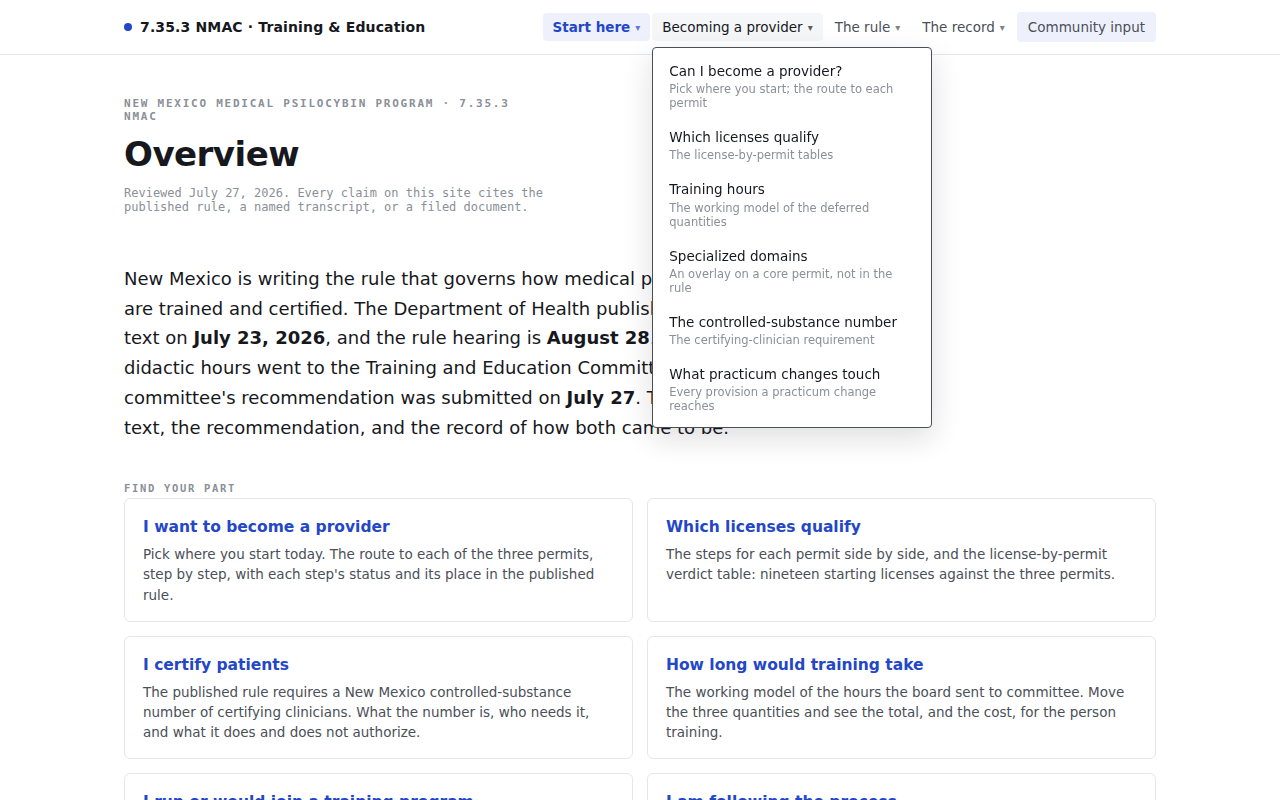
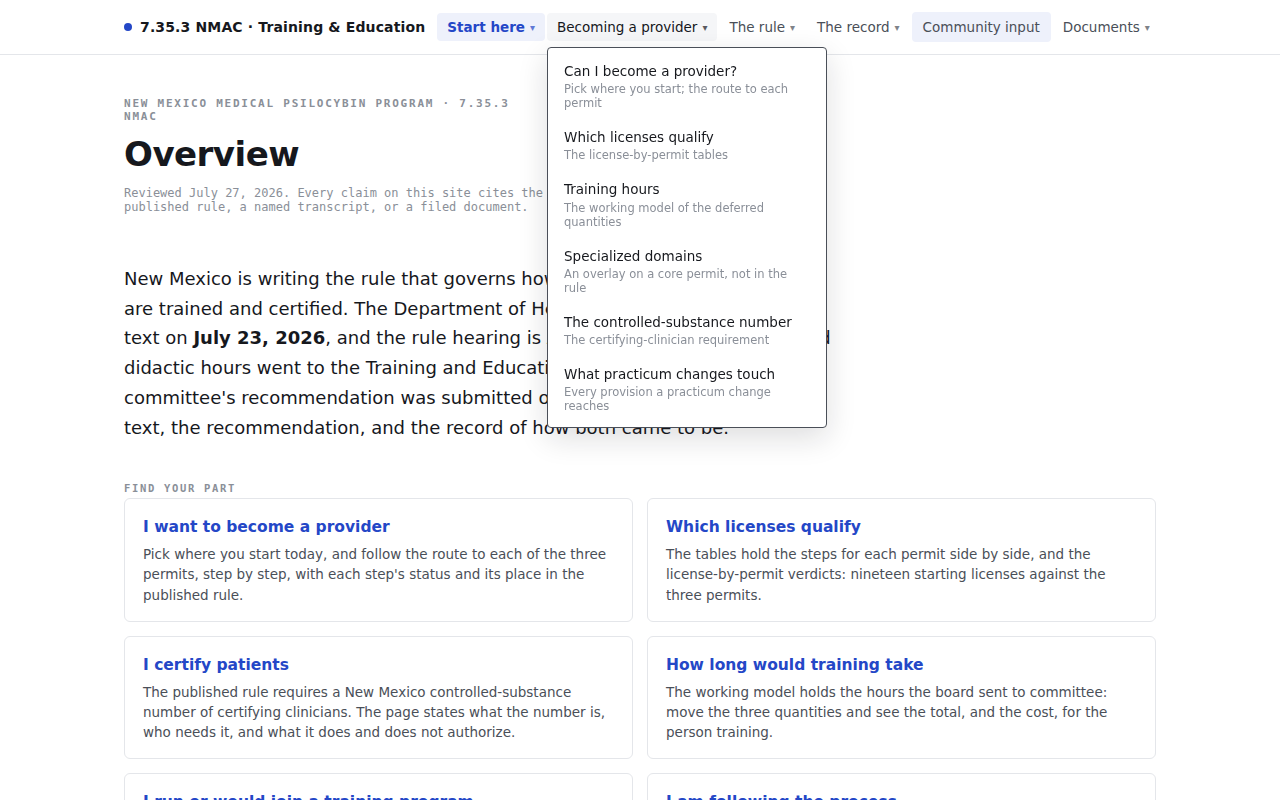
The Documents dropdown returns to the shared menu
Rightmost on every page, as before the unification: the register entry
opening record.html#documents, and the four current documents, the
published rule of July 23, both July 17 transcripts, and Dr. Anne
Metz's recommendations, each opening in a new tab. tools/check-site.py
now fails if the register entry or any of the four is missing from the
menu or does not open in a new tab. The desktop screenshots are
re-taken with the dropdown present.

Claude-Session: https://claude.ai/code/session_016xz6BLNYfb6j36YUkhoNb7

diff --git a/docs/changes.html b/docs/changes.html
@@ -209,7 +209,7 @@
   .navgrp>summary.on{color:var(--accent); background:var(--accent-soft);}
   .navgrp .caret{font-size:10px; opacity:.7;}
   .navgrp .tdrop-menu{position:absolute; top:calc(100% + 6px); left:0; right:auto; background:var(--surface); border:1px solid var(--border-strong); border-radius:10px; box-shadow:var(--shadow-lg,0 18px 44px rgba(26,22,33,.14)); padding:6px; min-width:280px; display:flex; flex-direction:column; gap:2px; z-index:60;}
-  .navgrp[data-navgrp="record"] .tdrop-menu{left:auto; right:0;}
+  .navgrp[data-navgrp="docs"] .tdrop-menu{left:auto; right:0;}
   .navgrp .tdrop-menu a{font-size:13px; text-decoration:none; color:var(--text); padding:8px 10px; border-radius:7px; display:block; white-space:normal; line-height:1.3;}
   .navgrp .tdrop-menu a:hover{background:var(--surface-2);}
   .navgrp .tdrop-menu a.on{background:var(--accent-soft); color:var(--accent);}
@@ -283,6 +283,16 @@
         </div>
       </details>
       <a href="comment.html" class="navcta">Community input</a>
+      <details class="tdrop navgrp" data-navgrp="docs">
+        <summary>Documents <span class="caret">&#9662;</span></summary>
+        <div class="tdrop-menu">
+          <a href="record.html#documents">All documents<span class="sub">The register: what each one is and whether it is current</span></a>
+          <a href="documents/rules-draft-2026-07-23-published.pdf" target="_blank" rel="noopener">Published rule &middot; July 23<span class="sub">The proposed rule going to the August 28 hearing</span></a>
+          <a href="documents/NMMPAB-2026-07-17-board-transcript.pdf" target="_blank" rel="noopener">Transcript &middot; July 17 board<span class="sub">Unofficial, no speaker attribution</span></a>
+          <a href="documents/NMMPAB-2026-07-17-committee-transcript.pdf" target="_blank" rel="noopener">Transcript &middot; July 17 committee<span class="sub">Unofficial, no speaker attribution</span></a>
+          <a href="documents/metz-recommendations-2026-07-17.pdf" target="_blank" rel="noopener">Recommendations &middot; July 17<span class="sub">Dr. Anne Metz, presented to the committee</span></a>
+        </div>
+      </details>
     </nav>
     <button class="hamburger" id="hbtn" aria-label="Menu" aria-expanded="false" aria-controls="tnav">&#9776;</button>
   </div>

diff --git a/docs/cs-number.html b/docs/cs-number.html
@@ -166,7 +166,7 @@
   .navgrp>summary.on{color:var(--accent); background:var(--accent-soft);}
   .navgrp .caret{font-size:10px; opacity:.7;}
   .navgrp .tdrop-menu{position:absolute; top:calc(100% + 6px); left:0; right:auto; background:var(--surface); border:1px solid var(--border-strong); border-radius:10px; box-shadow:var(--shadow-lg,0 18px 44px rgba(26,22,33,.14)); padding:6px; min-width:280px; display:flex; flex-direction:column; gap:2px; z-index:60;}
-  .navgrp[data-navgrp="record"] .tdrop-menu{left:auto; right:0;}
+  .navgrp[data-navgrp="docs"] .tdrop-menu{left:auto; right:0;}
   .navgrp .tdrop-menu a{font-size:13px; text-decoration:none; color:var(--text); padding:8px 10px; border-radius:7px; display:block; white-space:normal; line-height:1.3;}
   .navgrp .tdrop-menu a:hover{background:var(--surface-2);}
   .navgrp .tdrop-menu a.on{background:var(--accent-soft); color:var(--accent);}
@@ -241,6 +241,16 @@
         </div>
       </details>
       <a href="comment.html" class="navcta">Community input</a>
+      <details class="tdrop navgrp" data-navgrp="docs">
+        <summary>Documents <span class="caret">&#9662;</span></summary>
+        <div class="tdrop-menu">
+          <a href="record.html#documents">All documents<span class="sub">The register: what each one is and whether it is current</span></a>
+          <a href="documents/rules-draft-2026-07-23-published.pdf" target="_blank" rel="noopener">Published rule &middot; July 23<span class="sub">The proposed rule going to the August 28 hearing</span></a>
+          <a href="documents/NMMPAB-2026-07-17-board-transcript.pdf" target="_blank" rel="noopener">Transcript &middot; July 17 board<span class="sub">Unofficial, no speaker attribution</span></a>
+          <a href="documents/NMMPAB-2026-07-17-committee-transcript.pdf" target="_blank" rel="noopener">Transcript &middot; July 17 committee<span class="sub">Unofficial, no speaker attribution</span></a>
+          <a href="documents/metz-recommendations-2026-07-17.pdf" target="_blank" rel="noopener">Recommendations &middot; July 17<span class="sub">Dr. Anne Metz, presented to the committee</span></a>
+        </div>
+      </details>
     </nav>
     <button class="hamburger" id="hbtn" aria-label="Menu" aria-expanded="false" aria-controls="tnav">&#9776;</button>
   </div>

diff --git a/docs/deferred.html b/docs/deferred.html
@@ -163,7 +163,7 @@
   .navgrp>summary.on{color:var(--accent); background:var(--accent-soft);}
   .navgrp .caret{font-size:10px; opacity:.7;}
   .navgrp .tdrop-menu{position:absolute; top:calc(100% + 6px); left:0; right:auto; background:var(--surface); border:1px solid var(--border-strong); border-radius:10px; box-shadow:var(--shadow-lg,0 18px 44px rgba(26,22,33,.14)); padding:6px; min-width:280px; display:flex; flex-direction:column; gap:2px; z-index:60;}
-  .navgrp[data-navgrp="record"] .tdrop-menu{left:auto; right:0;}
+  .navgrp[data-navgrp="docs"] .tdrop-menu{left:auto; right:0;}
   .navgrp .tdrop-menu a{font-size:13px; text-decoration:none; color:var(--text); padding:8px 10px; border-radius:7px; display:block; white-space:normal; line-height:1.3;}
   .navgrp .tdrop-menu a:hover{background:var(--surface-2);}
   .navgrp .tdrop-menu a.on{background:var(--accent-soft); color:var(--accent);}
@@ -237,6 +237,16 @@
         </div>
       </details>
       <a href="comment.html" class="navcta">Community input</a>
+      <details class="tdrop navgrp" data-navgrp="docs">
+        <summary>Documents <span class="caret">&#9662;</span></summary>
+        <div class="tdrop-menu">
+          <a href="record.html#documents">All documents<span class="sub">The register: what each one is and whether it is current</span></a>
+          <a href="documents/rules-draft-2026-07-23-published.pdf" target="_blank" rel="noopener">Published rule &middot; July 23<span class="sub">The proposed rule going to the August 28 hearing</span></a>
+          <a href="documents/NMMPAB-2026-07-17-board-transcript.pdf" target="_blank" rel="noopener">Transcript &middot; July 17 board<span class="sub">Unofficial, no speaker attribution</span></a>
+          <a href="documents/NMMPAB-2026-07-17-committee-transcript.pdf" target="_blank" rel="noopener">Transcript &middot; July 17 committee<span class="sub">Unofficial, no speaker attribution</span></a>
+          <a href="documents/metz-recommendations-2026-07-17.pdf" target="_blank" rel="noopener">Recommendations &middot; July 17<span class="sub">Dr. Anne Metz, presented to the committee</span></a>
+        </div>
+      </details>
     </nav>
     <button class="hamburger" id="hbtn" aria-label="Menu" aria-expanded="false" aria-controls="tnav">&#9776;</button>
   </div>

diff --git a/docs/eligibility.html b/docs/eligibility.html
@@ -207,7 +207,7 @@
   .navgrp>summary.on{color:var(--accent); background:var(--accent-soft);}
   .navgrp .caret{font-size:10px; opacity:.7;}
   .navgrp .tdrop-menu{position:absolute; top:calc(100% + 6px); left:0; right:auto; background:var(--surface); border:1px solid var(--border-strong); border-radius:10px; box-shadow:var(--shadow-lg,0 18px 44px rgba(26,22,33,.14)); padding:6px; min-width:280px; display:flex; flex-direction:column; gap:2px; z-index:60;}
-  .navgrp[data-navgrp="record"] .tdrop-menu{left:auto; right:0;}
+  .navgrp[data-navgrp="docs"] .tdrop-menu{left:auto; right:0;}
   .navgrp .tdrop-menu a{font-size:13px; text-decoration:none; color:var(--text); padding:8px 10px; border-radius:7px; display:block; white-space:normal; line-height:1.3;}
   .navgrp .tdrop-menu a:hover{background:var(--surface-2);}
   .navgrp .tdrop-menu a.on{background:var(--accent-soft); color:var(--accent);}
@@ -281,6 +281,16 @@
         </div>
       </details>
       <a href="comment.html" class="navcta">Community input</a>
+      <details class="tdrop navgrp" data-navgrp="docs">
+        <summary>Documents <span class="caret">&#9662;</span></summary>
+        <div class="tdrop-menu">
+          <a href="record.html#documents">All documents<span class="sub">The register: what each one is and whether it is current</span></a>
+          <a href="documents/rules-draft-2026-07-23-published.pdf" target="_blank" rel="noopener">Published rule &middot; July 23<span class="sub">The proposed rule going to the August 28 hearing</span></a>
+          <a href="documents/NMMPAB-2026-07-17-board-transcript.pdf" target="_blank" rel="noopener">Transcript &middot; July 17 board<span class="sub">Unofficial, no speaker attribution</span></a>
+          <a href="documents/NMMPAB-2026-07-17-committee-transcript.pdf" target="_blank" rel="noopener">Transcript &middot; July 17 committee<span class="sub">Unofficial, no speaker attribution</span></a>
+          <a href="documents/metz-recommendations-2026-07-17.pdf" target="_blank" rel="noopener">Recommendations &middot; July 17<span class="sub">Dr. Anne Metz, presented to the committee</span></a>
+        </div>
+      </details>
     </nav>
     <button class="hamburger" id="hbtn" aria-label="Menu" aria-expanded="false" aria-controls="tnav">&#9776;</button>
   </div>

diff --git a/docs/pathways.html b/docs/pathways.html
@@ -234,7 +234,7 @@
   .navgrp>summary.on{color:var(--accent); background:var(--accent-soft);}
   .navgrp .caret{font-size:10px; opacity:.7;}
   .navgrp .tdrop-menu{position:absolute; top:calc(100% + 6px); left:0; right:auto; background:var(--surface); border:1px solid var(--border-strong); border-radius:10px; box-shadow:var(--shadow-lg,0 18px 44px rgba(26,22,33,.14)); padding:6px; min-width:280px; display:flex; flex-direction:column; gap:2px; z-index:60;}
-  .navgrp[data-navgrp="record"] .tdrop-menu{left:auto; right:0;}
+  .navgrp[data-navgrp="docs"] .tdrop-menu{left:auto; right:0;}
   .navgrp .tdrop-menu a{font-size:13px; text-decoration:none; color:var(--text); padding:8px 10px; border-radius:7px; display:block; white-space:normal; line-height:1.3;}
   .navgrp .tdrop-menu a:hover{background:var(--surface-2);}
   .navgrp .tdrop-menu a.on{background:var(--accent-soft); color:var(--accent);}
@@ -308,6 +308,16 @@
         </div>
       </details>
       <a href="comment.html" class="navcta">Community input</a>
+      <details class="tdrop navgrp" data-navgrp="docs">
+        <summary>Documents <span class="caret">&#9662;</span></summary>
+        <div class="tdrop-menu">
+          <a href="record.html#documents">All documents<span class="sub">The register: what each one is and whether it is current</span></a>
+          <a href="documents/rules-draft-2026-07-23-published.pdf" target="_blank" rel="noopener">Published rule &middot; July 23<span class="sub">The proposed rule going to the August 28 hearing</span></a>
+          <a href="documents/NMMPAB-2026-07-17-board-transcript.pdf" target="_blank" rel="noopener">Transcript &middot; July 17 board<span class="sub">Unofficial, no speaker attribution</span></a>
+          <a href="documents/NMMPAB-2026-07-17-committee-transcript.pdf" target="_blank" rel="noopener">Transcript &middot; July 17 committee<span class="sub">Unofficial, no speaker attribution</span></a>
+          <a href="documents/metz-recommendations-2026-07-17.pdf" target="_blank" rel="noopener">Recommendations &middot; July 17<span class="sub">Dr. Anne Metz, presented to the committee</span></a>
+        </div>
+      </details>
     </nav>
     <button class="hamburger" id="hbtn" aria-label="Menu" aria-expanded="false" aria-controls="tnav">&#9776;</button>
   </div>

diff --git a/docs/specialization.html b/docs/specialization.html
@@ -188,7 +188,7 @@
   .navgrp>summary.on{color:var(--accent); background:var(--accent-soft);}
   .navgrp .caret{font-size:10px; opacity:.7;}
   .navgrp .tdrop-menu{position:absolute; top:calc(100% + 6px); left:0; right:auto; background:var(--surface); border:1px solid var(--border-strong); border-radius:10px; box-shadow:var(--shadow-lg,0 18px 44px rgba(26,22,33,.14)); padding:6px; min-width:280px; display:flex; flex-direction:column; gap:2px; z-index:60;}
-  .navgrp[data-navgrp="record"] .tdrop-menu{left:auto; right:0;}
+  .navgrp[data-navgrp="docs"] .tdrop-menu{left:auto; right:0;}
   .navgrp .tdrop-menu a{font-size:13px; text-decoration:none; color:var(--text); padding:8px 10px; border-radius:7px; display:block; white-space:normal; line-height:1.3;}
   .navgrp .tdrop-menu a:hover{background:var(--surface-2);}
   .navgrp .tdrop-menu a.on{background:var(--accent-soft); color:var(--accent);}
@@ -262,6 +262,16 @@
         </div>
       </details>
       <a href="comment.html" class="navcta">Community input</a>
+      <details class="tdrop navgrp" data-navgrp="docs">
+        <summary>Documents <span class="caret">&#9662;</span></summary>
+        <div class="tdrop-menu">
+          <a href="record.html#documents">All documents<span class="sub">The register: what each one is and whether it is current</span></a>
+          <a href="documents/rules-draft-2026-07-23-published.pdf" target="_blank" rel="noopener">Published rule &middot; July 23<span class="sub">The proposed rule going to the August 28 hearing</span></a>
+          <a href="documents/NMMPAB-2026-07-17-board-transcript.pdf" target="_blank" rel="noopener">Transcript &middot; July 17 board<span class="sub">Unofficial, no speaker attribution</span></a>
+          <a href="documents/NMMPAB-2026-07-17-committee-transcript.pdf" target="_blank" rel="noopener">Transcript &middot; July 17 committee<span class="sub">Unofficial, no speaker attribution</span></a>
+          <a href="documents/metz-recommendations-2026-07-17.pdf" target="_blank" rel="noopener">Recommendations &middot; July 17<span class="sub">Dr. Anne Metz, presented to the committee</span></a>
+        </div>
+      </details>
     </nav>
     <button class="hamburger" id="hbtn" aria-label="Menu" aria-expanded="false" aria-controls="tnav">&#9776;</button>
   </div>

diff --git a/docs/training-hours-record.html b/docs/training-hours-record.html
@@ -297,7 +297,7 @@
   .navgrp>summary.on{color:var(--accent); background:var(--accent-soft);}
   .navgrp .caret{font-size:10px; opacity:.7;}
   .navgrp .tdrop-menu{position:absolute; top:calc(100% + 6px); left:0; right:auto; background:var(--surface); border:1px solid var(--border-strong); border-radius:10px; box-shadow:var(--shadow-lg,0 18px 44px rgba(26,22,33,.14)); padding:6px; min-width:280px; display:flex; flex-direction:column; gap:2px; z-index:60;}
-  .navgrp[data-navgrp="record"] .tdrop-menu{left:auto; right:0;}
+  .navgrp[data-navgrp="docs"] .tdrop-menu{left:auto; right:0;}
   .navgrp .tdrop-menu a{font-size:13px; text-decoration:none; color:var(--text); padding:8px 10px; border-radius:7px; display:block; white-space:normal; line-height:1.3;}
   .navgrp .tdrop-menu a:hover{background:var(--surface-2);}
   .navgrp .tdrop-menu a.on{background:var(--accent-soft); color:var(--accent);}
@@ -372,6 +372,16 @@
         </div>
       </details>
       <a href="comment.html" class="navcta">Community input</a>
+      <details class="tdrop navgrp" data-navgrp="docs">
+        <summary>Documents <span class="caret">&#9662;</span></summary>
+        <div class="tdrop-menu">
+          <a href="record.html#documents">All documents<span class="sub">The register: what each one is and whether it is current</span></a>
+          <a href="documents/rules-draft-2026-07-23-published.pdf" target="_blank" rel="noopener">Published rule &middot; July 23<span class="sub">The proposed rule going to the August 28 hearing</span></a>
+          <a href="documents/NMMPAB-2026-07-17-board-transcript.pdf" target="_blank" rel="noopener">Transcript &middot; July 17 board<span class="sub">Unofficial, no speaker attribution</span></a>
+          <a href="documents/NMMPAB-2026-07-17-committee-transcript.pdf" target="_blank" rel="noopener">Transcript &middot; July 17 committee<span class="sub">Unofficial, no speaker attribution</span></a>
+          <a href="documents/metz-recommendations-2026-07-17.pdf" target="_blank" rel="noopener">Recommendations &middot; July 17<span class="sub">Dr. Anne Metz, presented to the committee</span></a>
+        </div>
+      </details>
     </nav>
     <button class="hamburger" id="hbtn" aria-label="Menu" aria-expanded="false" aria-controls="tnav">&#9776;</button>
   </div>

diff --git a/docs/hours.html b/docs/hours.html
@@ -4,7 +4,7 @@
 <meta charset="utf-8">
 <meta name="viewport" content="width=device-width,initial-scale=1">
 <title>The hours, as a working model · 7.35.3 NMAC Training and Education</title>
-<link rel="stylesheet" href="style.css?v=6c4f4d8b">
+<link rel="stylesheet" href="style.css?v=3bb392b3">
 <style>
 .roles{display:inline-flex;border:1px solid var(--hair);border-radius:4px;margin:20px 0 6px}
 .roles label{padding:8px 18px;font-size:14px;font-weight:600;color:var(--ink2);cursor:pointer}
@@ -84,6 +84,16 @@ input[type=range]::-moz-range-thumb{width:14px;height:14px;border-radius:50%;bac
         </div>
       </details>
       <a href="comment.html" class="navcta">Community input</a>
+      <details class="tdrop navgrp" data-navgrp="docs">
+        <summary>Documents <span class="caret">&#9662;</span></summary>
+        <div class="tdrop-menu">
+          <a href="record.html#documents">All documents<span class="sub">The register: what each one is and whether it is current</span></a>
+          <a href="documents/rules-draft-2026-07-23-published.pdf" target="_blank" rel="noopener">Published rule &middot; July 23<span class="sub">The proposed rule going to the August 28 hearing</span></a>
+          <a href="documents/NMMPAB-2026-07-17-board-transcript.pdf" target="_blank" rel="noopener">Transcript &middot; July 17 board<span class="sub">Unofficial, no speaker attribution</span></a>
+          <a href="documents/NMMPAB-2026-07-17-committee-transcript.pdf" target="_blank" rel="noopener">Transcript &middot; July 17 committee<span class="sub">Unofficial, no speaker attribution</span></a>
+          <a href="documents/metz-recommendations-2026-07-17.pdf" target="_blank" rel="noopener">Recommendations &middot; July 17<span class="sub">Dr. Anne Metz, presented to the committee</span></a>
+        </div>
+      </details>
     </nav>
     <button class="hamburger" id="hbtn" aria-label="Menu" aria-expanded="false" aria-controls="tnav">&#9776;</button>
   </div>

diff --git a/docs/rule.html b/docs/rule.html
@@ -4,7 +4,7 @@
 <meta charset="utf-8">
 <meta name="viewport" content="width=device-width,initial-scale=1">
 <title>The rule · 7.35.3 NMAC Training and Education</title>
-<link rel="stylesheet" href="style.css?v=6c4f4d8b">
+<link rel="stylesheet" href="style.css?v=3bb392b3">
 <style>
 .toclist{display:grid;grid-template-columns:1fr 1fr;gap:2px 28px;margin:18px 0 6px}
 a.toc{display:flex;gap:10px;align-items:baseline;padding:6px 8px;border-radius:4px;text-decoration:none;color:var(--ink);font-size:13.5px}
@@ -63,6 +63,16 @@ a.pdf:hover{color:var(--blue)}
         </div>
       </details>
       <a href="comment.html" class="navcta">Community input</a>
+      <details class="tdrop navgrp" data-navgrp="docs">
+        <summary>Documents <span class="caret">&#9662;</span></summary>
+        <div class="tdrop-menu">
+          <a href="record.html#documents">All documents<span class="sub">The register: what each one is and whether it is current</span></a>
+          <a href="documents/rules-draft-2026-07-23-published.pdf" target="_blank" rel="noopener">Published rule &middot; July 23<span class="sub">The proposed rule going to the August 28 hearing</span></a>
+          <a href="documents/NMMPAB-2026-07-17-board-transcript.pdf" target="_blank" rel="noopener">Transcript &middot; July 17 board<span class="sub">Unofficial, no speaker attribution</span></a>
+          <a href="documents/NMMPAB-2026-07-17-committee-transcript.pdf" target="_blank" rel="noopener">Transcript &middot; July 17 committee<span class="sub">Unofficial, no speaker attribution</span></a>
+          <a href="documents/metz-recommendations-2026-07-17.pdf" target="_blank" rel="noopener">Recommendations &middot; July 17<span class="sub">Dr. Anne Metz, presented to the committee</span></a>
+        </div>
+      </details>
     </nav>
     <button class="hamburger" id="hbtn" aria-label="Menu" aria-expanded="false" aria-controls="tnav">&#9776;</button>
   </div>

diff --git a/docs/record.html b/docs/record.html
@@ -4,7 +4,7 @@
 <meta charset="utf-8">
 <meta name="viewport" content="width=device-width,initial-scale=1">
 <title>Record · 7.35.3 NMAC Training and Education</title>
-<link rel="stylesheet" href="style.css?v=6c4f4d8b">
+<link rel="stylesheet" href="style.css?v=3bb392b3">
 <style>
 .entry{display:grid;grid-template-columns:110px 1fr;gap:20px;padding:16px 0;border-top:1px solid var(--hair)}
 .entry:first-of-type{border-top:1.5px solid var(--ink)}
@@ -57,6 +57,16 @@
         </div>
       </details>
       <a href="comment.html" class="navcta">Community input</a>
+      <details class="tdrop navgrp" data-navgrp="docs">
+        <summary>Documents <span class="caret">&#9662;</span></summary>
+        <div class="tdrop-menu">
+          <a href="record.html#documents">All documents<span class="sub">The register: what each one is and whether it is current</span></a>
+          <a href="documents/rules-draft-2026-07-23-published.pdf" target="_blank" rel="noopener">Published rule &middot; July 23<span class="sub">The proposed rule going to the August 28 hearing</span></a>
+          <a href="documents/NMMPAB-2026-07-17-board-transcript.pdf" target="_blank" rel="noopener">Transcript &middot; July 17 board<span class="sub">Unofficial, no speaker attribution</span></a>
+          <a href="documents/NMMPAB-2026-07-17-committee-transcript.pdf" target="_blank" rel="noopener">Transcript &middot; July 17 committee<span class="sub">Unofficial, no speaker attribution</span></a>
+          <a href="documents/metz-recommendations-2026-07-17.pdf" target="_blank" rel="noopener">Recommendations &middot; July 17<span class="sub">Dr. Anne Metz, presented to the committee</span></a>
+        </div>
+      </details>
     </nav>
     <button class="hamburger" id="hbtn" aria-label="Menu" aria-expanded="false" aria-controls="tnav">&#9776;</button>
   </div>

diff --git a/docs/comment.html b/docs/comment.html
@@ -4,7 +4,7 @@
 <meta charset="utf-8">
 <meta name="viewport" content="width=device-width,initial-scale=1">
 <title>Public comment · 7.35.3 NMAC Training and Education</title>
-<link rel="stylesheet" href="style.css?v=6c4f4d8b">
+<link rel="stylesheet" href="style.css?v=3bb392b3">
 <style>
 form{max-width:640px}
 label{display:block;font:600 13px var(--sans);margin:16px 0 5px}
@@ -60,6 +60,16 @@ button.send:hover{background:#1c3aa3}
         </div>
       </details>
       <a href="comment.html" class="navcta">Community input</a>
+      <details class="tdrop navgrp" data-navgrp="docs">
+        <summary>Documents <span class="caret">&#9662;</span></summary>
+        <div class="tdrop-menu">
+          <a href="record.html#documents">All documents<span class="sub">The register: what each one is and whether it is current</span></a>
+          <a href="documents/rules-draft-2026-07-23-published.pdf" target="_blank" rel="noopener">Published rule &middot; July 23<span class="sub">The proposed rule going to the August 28 hearing</span></a>
+          <a href="documents/NMMPAB-2026-07-17-board-transcript.pdf" target="_blank" rel="noopener">Transcript &middot; July 17 board<span class="sub">Unofficial, no speaker attribution</span></a>
+          <a href="documents/NMMPAB-2026-07-17-committee-transcript.pdf" target="_blank" rel="noopener">Transcript &middot; July 17 committee<span class="sub">Unofficial, no speaker attribution</span></a>
+          <a href="documents/metz-recommendations-2026-07-17.pdf" target="_blank" rel="noopener">Recommendations &middot; July 17<span class="sub">Dr. Anne Metz, presented to the committee</span></a>
+        </div>
+      </details>
     </nav>
     <button class="hamburger" id="hbtn" aria-label="Menu" aria-expanded="false" aria-controls="tnav">&#9776;</button>
   </div>

diff --git a/docs/index.html b/docs/index.html
@@ -4,7 +4,7 @@
 <meta charset="utf-8">
 <meta name="viewport" content="width=device-width,initial-scale=1">
 <title>Overview · 7.35.3 NMAC Training and Education</title>
-<link rel="stylesheet" href="style.css?v=6c4f4d8b">
+<link rel="stylesheet" href="style.css?v=3bb392b3">
 <style>
 .plaque{font-size:18px;line-height:1.65;max-width:62ch;color:var(--ink)}
 .plaque b{font-weight:650}
@@ -67,6 +67,16 @@
         </div>
       </details>
       <a href="comment.html" class="navcta">Community input</a>
+      <details class="tdrop navgrp" data-navgrp="docs">
+        <summary>Documents <span class="caret">&#9662;</span></summary>
+        <div class="tdrop-menu">
+          <a href="record.html#documents">All documents<span class="sub">The register: what each one is and whether it is current</span></a>
+          <a href="documents/rules-draft-2026-07-23-published.pdf" target="_blank" rel="noopener">Published rule &middot; July 23<span class="sub">The proposed rule going to the August 28 hearing</span></a>
+          <a href="documents/NMMPAB-2026-07-17-board-transcript.pdf" target="_blank" rel="noopener">Transcript &middot; July 17 board<span class="sub">Unofficial, no speaker attribution</span></a>
+          <a href="documents/NMMPAB-2026-07-17-committee-transcript.pdf" target="_blank" rel="noopener">Transcript &middot; July 17 committee<span class="sub">Unofficial, no speaker attribution</span></a>
+          <a href="documents/metz-recommendations-2026-07-17.pdf" target="_blank" rel="noopener">Recommendations &middot; July 17<span class="sub">Dr. Anne Metz, presented to the committee</span></a>
+        </div>
+      </details>
     </nav>
     <button class="hamburger" id="hbtn" aria-label="Menu" aria-expanded="false" aria-controls="tnav">&#9776;</button>
   </div>
